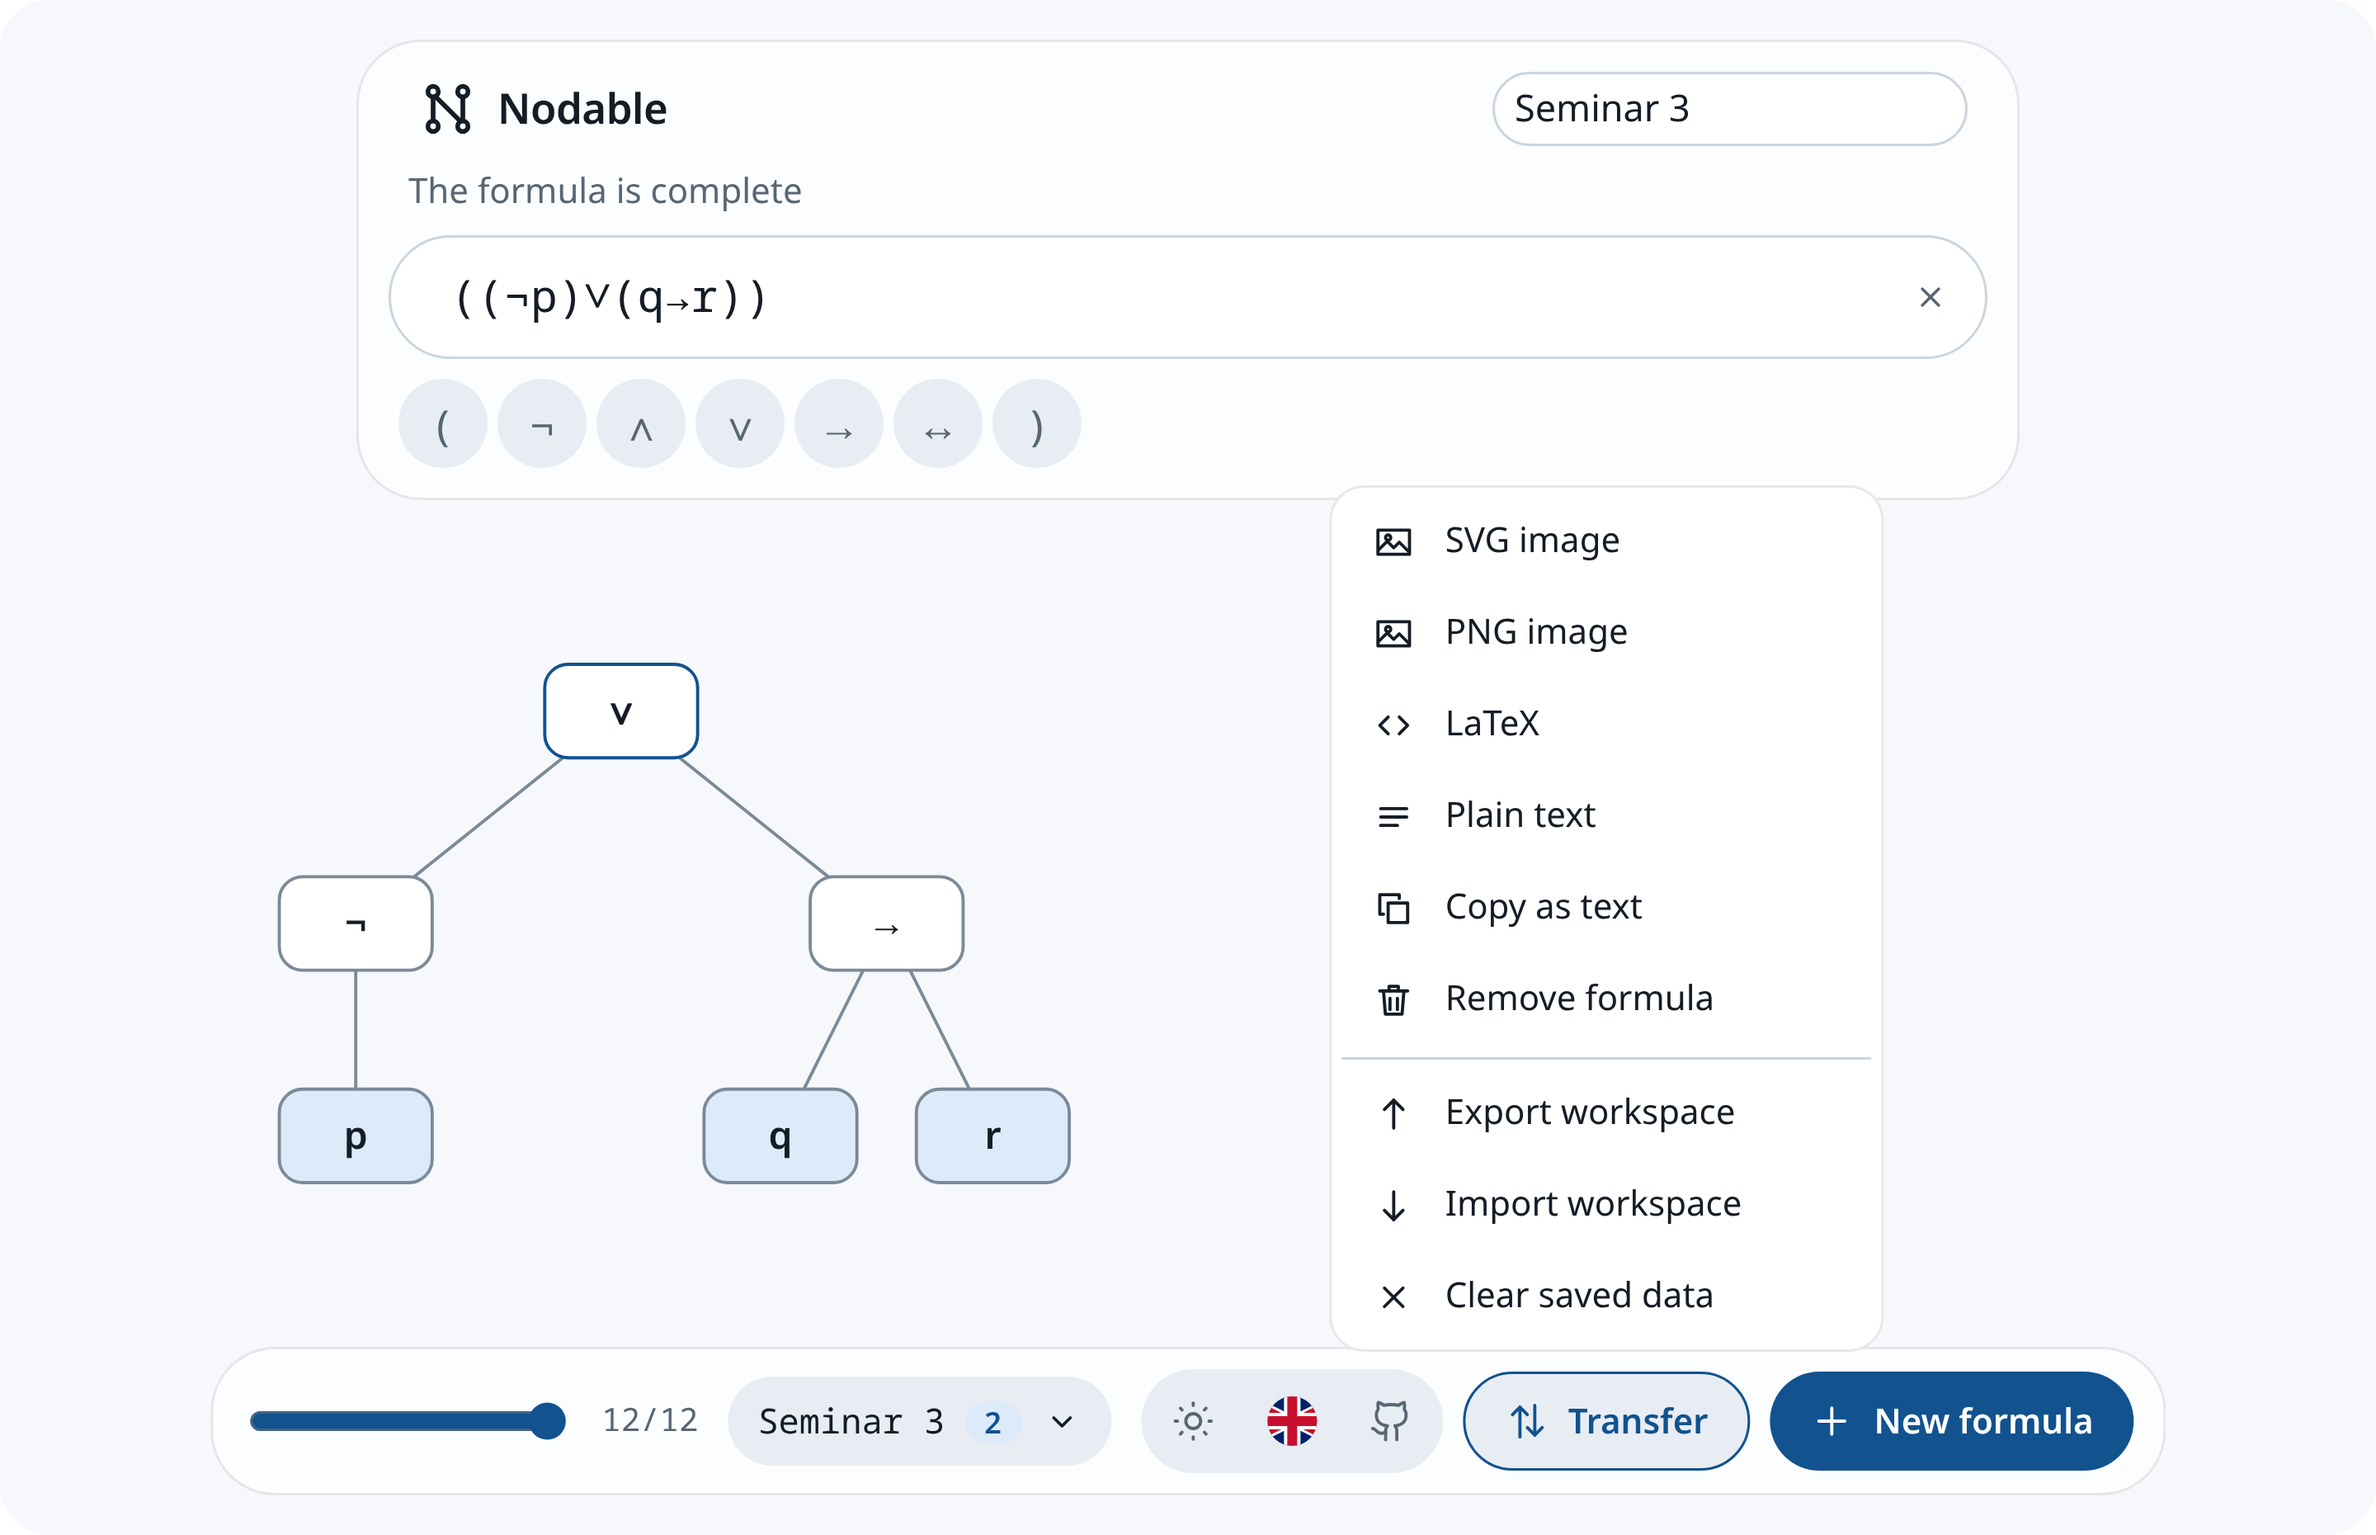
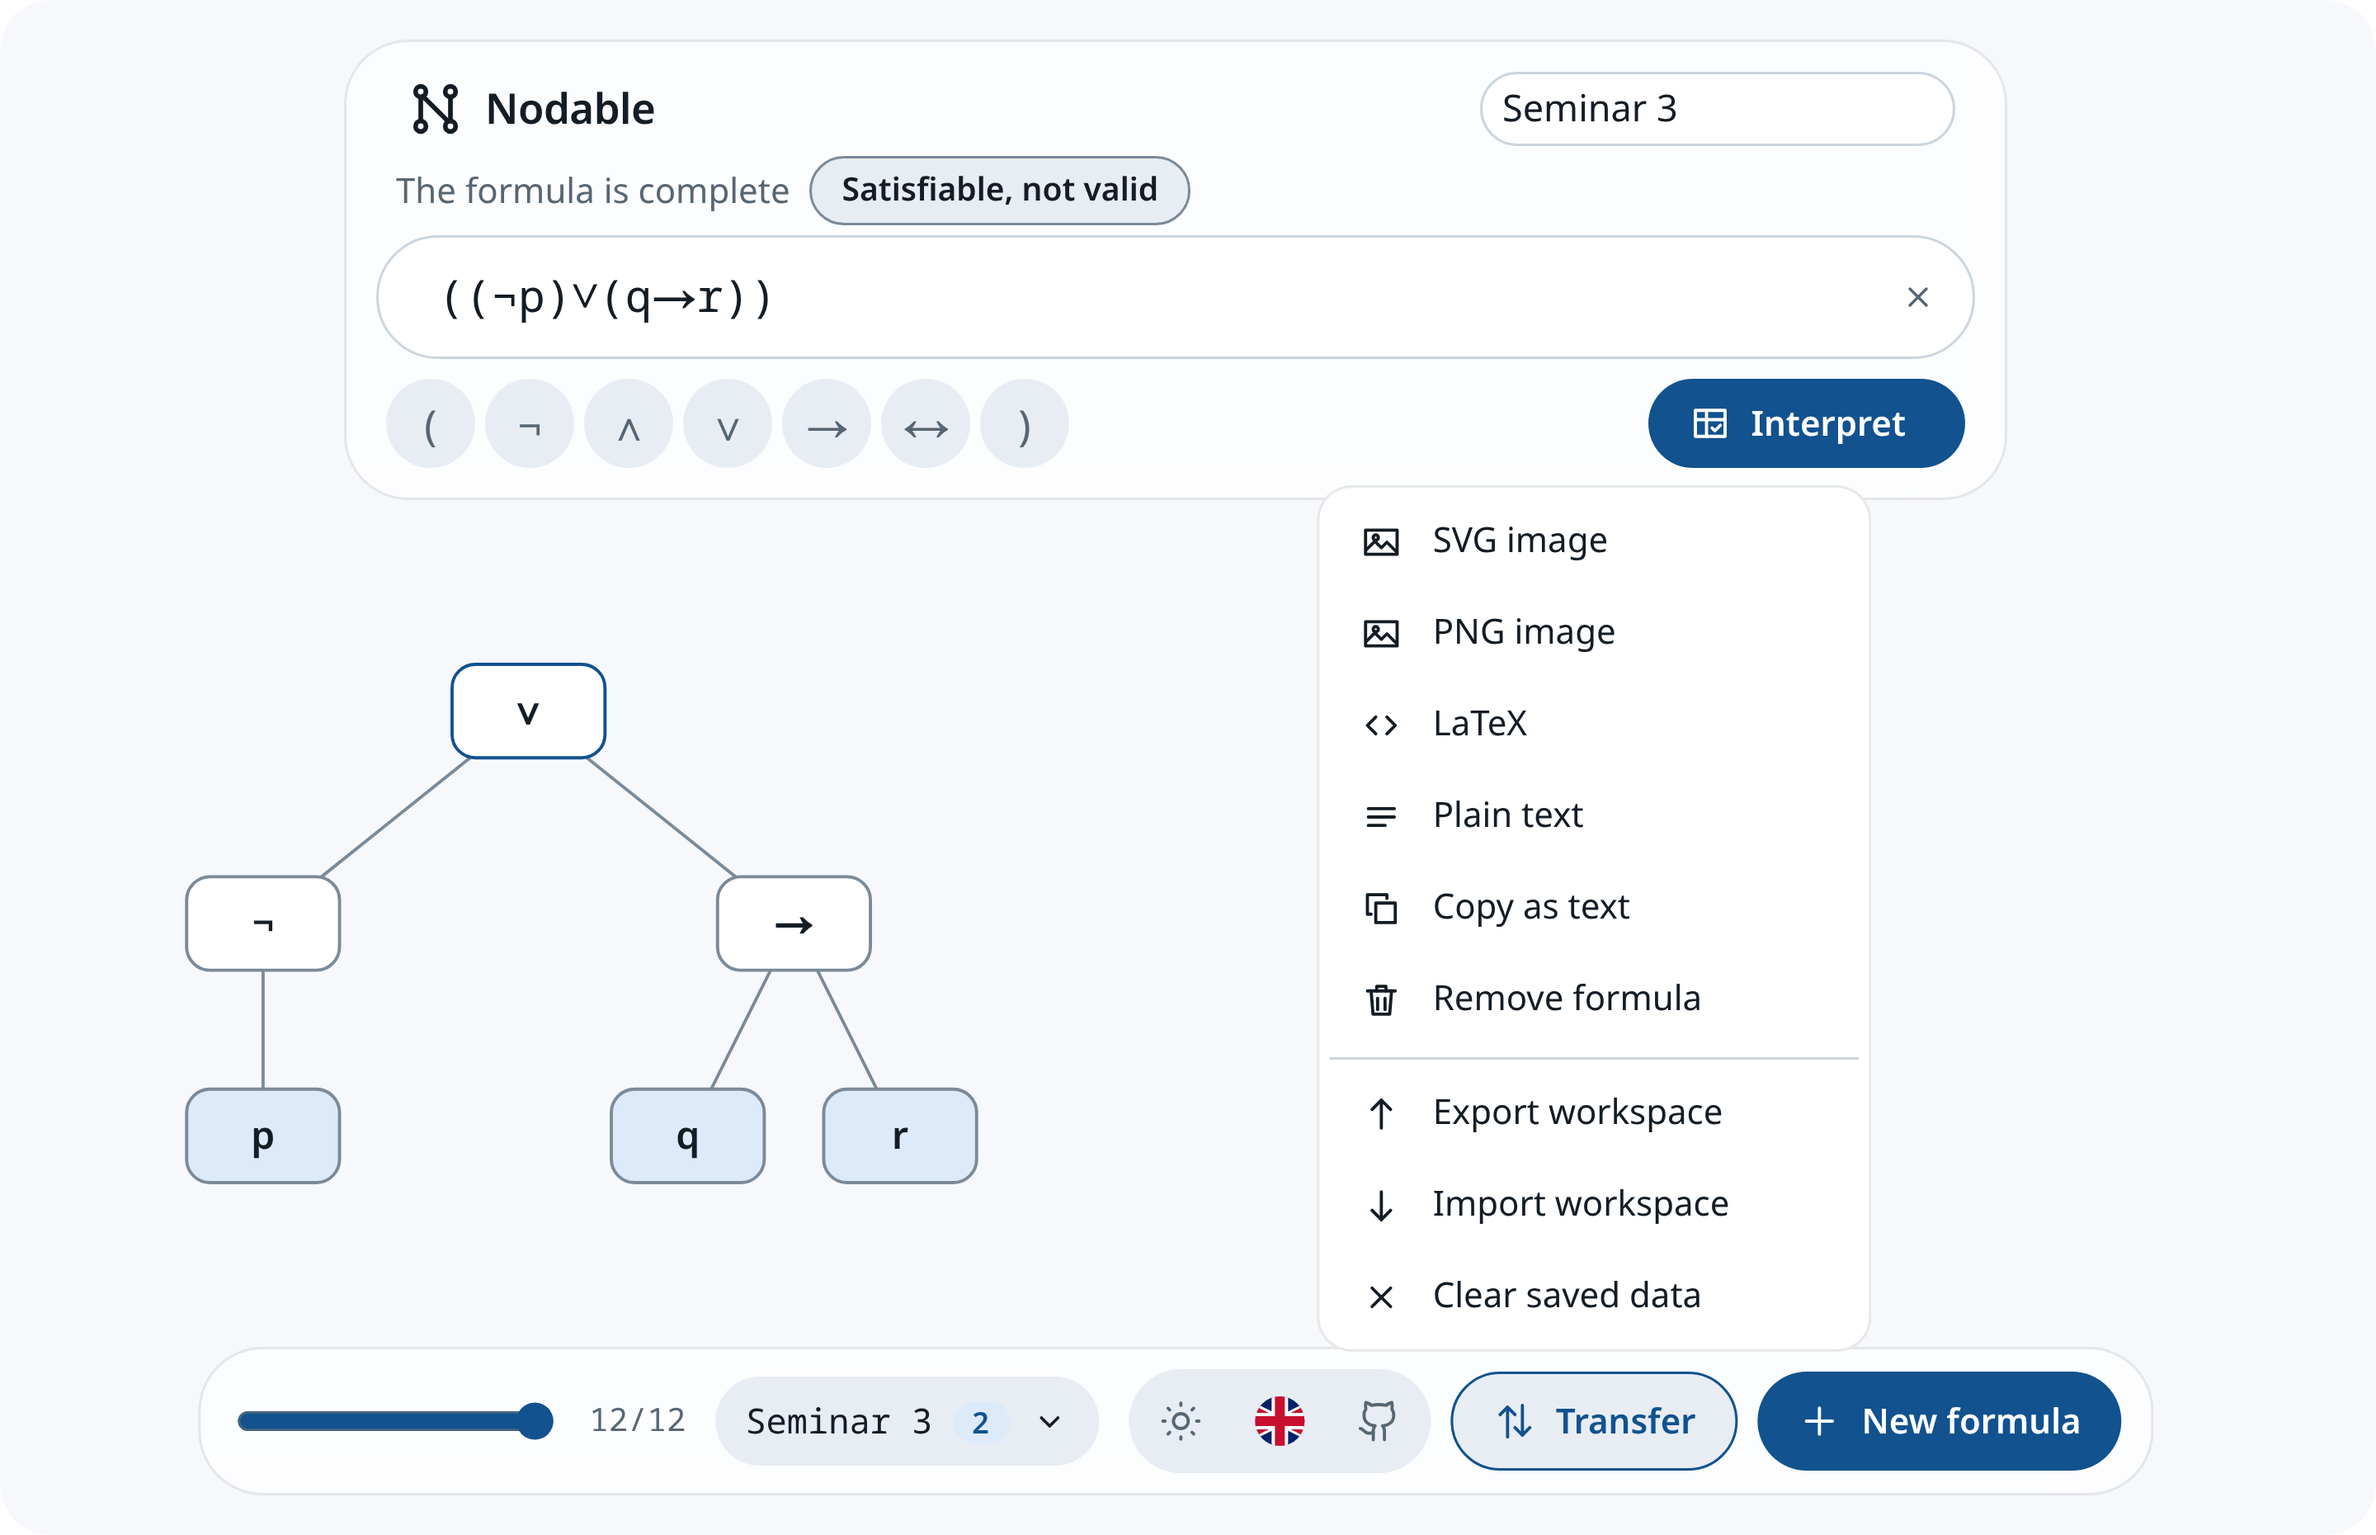
docs(repo): document the classification and retake the screenshots
- The notation and the SDK reference describe the classification
- The readme gains interpretation and classification sections
- Every shot is retaken at 2880 by 1860 with the full-size arrows

diff --git a/docs/sdk-reference.md b/docs/sdk-reference.md
@@ -118,6 +118,10 @@ The variables of the formula, each listed once, in the order they first appear.
 
 Sets the truth value of one variable. `undefined` removes the value.
 
+### `setInterpretation(session: Session, interpretation: Interpretation): Session`
+
+Replaces every value at once, for example with a model found by `classifySession`.
+
 ### `clearInterpretation(session: Session): Session`
 
 Removes every value.
@@ -144,6 +148,27 @@ type EvaluationStep = {
 `operands` are the values of the children the node was computed from. A node whose value depends on
 a variable without a value, or that is still a slot or an undecided group, has no value and is
 missing from `values`. `value` is the value of the whole formula.
+
+### `classifySession(session: Session): Classification | undefined`
+
+Checks the formula under every interpretation of its variables.
+
+```ts
+type Satisfiability = 'valid' | 'satisfiable' | 'unsatisfiable'
+
+type Classification = {
+  readonly kind: Satisfiability
+  readonly models: number
+  readonly interpretations: number
+  readonly model: Interpretation | undefined
+  readonly countermodel: Interpretation | undefined
+}
+```
+
+`models` counts the interpretations that make the formula true, out of `interpretations`.
+`model` and `countermodel` are the first interpretation, in truth-table order starting with every
+variable true, that makes the formula true and false. An unfinished formula, or one with more than
+`MAX_CLASSIFIED_VARIABLES` (16) variables, has no classification.
 
 ### `valueOfVariable(interpretation: Interpretation, name: string): TruthValue | undefined`
 
@@ -365,6 +390,6 @@ type Result<TValue, TError> =
 
 For convenience the SDK re-exports the engine types the interface needs, so the app never imports
 `@nodable/engine` directly: `Analysis`, `BuildStep`, `Cursor`, `Diagnostic`, `DiagnosticCode`,
-`DiagnosticMessageKey`, `DiagnosticSeverity`, `Evaluation`, `EvaluationStep`, `Interpretation`,
+`DiagnosticMessageKey`, `DiagnosticSeverity`, `Classification`, `Satisfiability`, `Evaluation`, `EvaluationStep`, `Interpretation`,
 `NodeId`, `NodeKind`, `Token`, `TokenKind`, `TreeNode` and its variants, `TruthValue`, the canonical symbols, `childrenOf`, `collectNodes`, `isNodeComplete`,
 `leavesOf`, `normalizeFormula` and `valueOfVariable`.

diff --git a/README.md b/README.md
@@ -26,6 +26,8 @@ Computational Logic course. Everything runs in the browser: no account, no serve
 - A slider replays the construction from the first token to the last.
 - A finished formula can be interpreted: give each variable a truth value and see the value of every
   node, step by step.
+- A finished formula is classified as valid, satisfiable or unsatisfiable, with a model and a
+  counter-model to try.
 - Several named formulas per workspace, saved locally.
 - Export to SVG, PNG, LaTeX, plain text or JSON.
 - English and Romanian, light and dark.
@@ -36,6 +38,22 @@ Computational Logic course. Everything runs in the browser: no account, no serve
 
 After an open parenthesis, a group can still become a single or a double node. Nodable draws both
 trees until the next token decides which one it is.
+
+## Interpretation
+
+![A formula interpreted with every variable set](assets/screenshots/interpretation.png)
+
+Once the formula is complete, Interpret opens a separate view. Each variable is set to true or
+false, and every node of the tree shows its value as soon as its children have one. Step-by-step
+evaluation lists each subformula with the values it was computed from.
+
+## Classification
+
+![The classification card with a model and a counter-model](assets/screenshots/classification.png)
+
+A complete formula is checked under every interpretation and marked valid, satisfiable but not
+valid, or unsatisfiable. In the interpretation view, Classification shows how many interpretations
+make the formula true, with a model and a counter-model that load into the variables when clicked.
 
 ## Exports
 

diff --git a/docs/notation.md b/docs/notation.md
@@ -143,6 +143,26 @@ its children are known, so while some variables are still open the interface sho
 the tree are already decided. The interface writes the values as `T` and `F` in English and as `A`
 and `F` in Romanian.
 
+## Classification
+
+A complete formula is also checked under every interpretation of its variables, the way a truth
+table lists them, starting with every variable true.
+
+| Label in the interface   | Meaning                                                        |
+| ------------------------ | -------------------------------------------------------------- |
+| Satisfiable, valid       | True under every interpretation (a tautology)                  |
+| Satisfiable, not valid   | True under at least one interpretation and false under another |
+| Unsatisfiable, not valid | False under every interpretation (a contradiction)             |
+
+Every valid formula is satisfiable and every unsatisfiable formula is not valid, so the label names
+both properties.
+
+The interface shows the class next to the hint once the formula is complete. In the interpretation
+view a Classification button opens a card with the class, how many interpretations make the formula
+true, the first model and the first counter-model in truth-table order; clicking one loads it into
+the variables. The step-by-step evaluation opens the same way, so neither makes the panel taller.
+Formulas with more than 16 variables are not classified.
+
 ## Hints
 
 After every step the engine computes the set of tokens allowed next. The interface uses it to

diff --git a/docs/architecture.md b/docs/architecture.md
@@ -26,7 +26,7 @@ The engine holds the course rules and nothing else.
 | `tokenizer/` | Turn raw input text into tokens and normalize ASCII aliases to canonical symbols |
 | `builder/`   | Apply the placement rules to each token and record every intermediate step       |
 | `validator/` | Produce diagnostics and the set of tokens allowed next                           |
-| `semantics/` | Evaluate a tree under an interpretation, from the leaves up to the root          |
+| `semantics/` | Evaluate a tree under an interpretation and classify it as valid or satisfiable  |
 | `model/`     | Types and helpers for nodes, slots and cursor position                           |
 
 ## packages/sdk

diff --git a/CHANGELOG.md b/CHANGELOG.md
@@ -26,6 +26,8 @@ First working version of Nodable.
   or false. The tree shows the value of every node as soon as it is decided, a step-by-step list
   writes out each subformula with the values it was computed from, and the chosen values are saved
   with the formula.
+- **Classification.** A complete formula is marked valid, satisfiable but not valid, or
+  unsatisfiable, and the interpretation view offers a model and a counter-model to load.
 - **Workspace.** Several named formulas, a picker to switch between them, and removal of the
   active one.
 - **Work area.** The tree is fitted to the window and can be panned and zoomed with the pointer or
